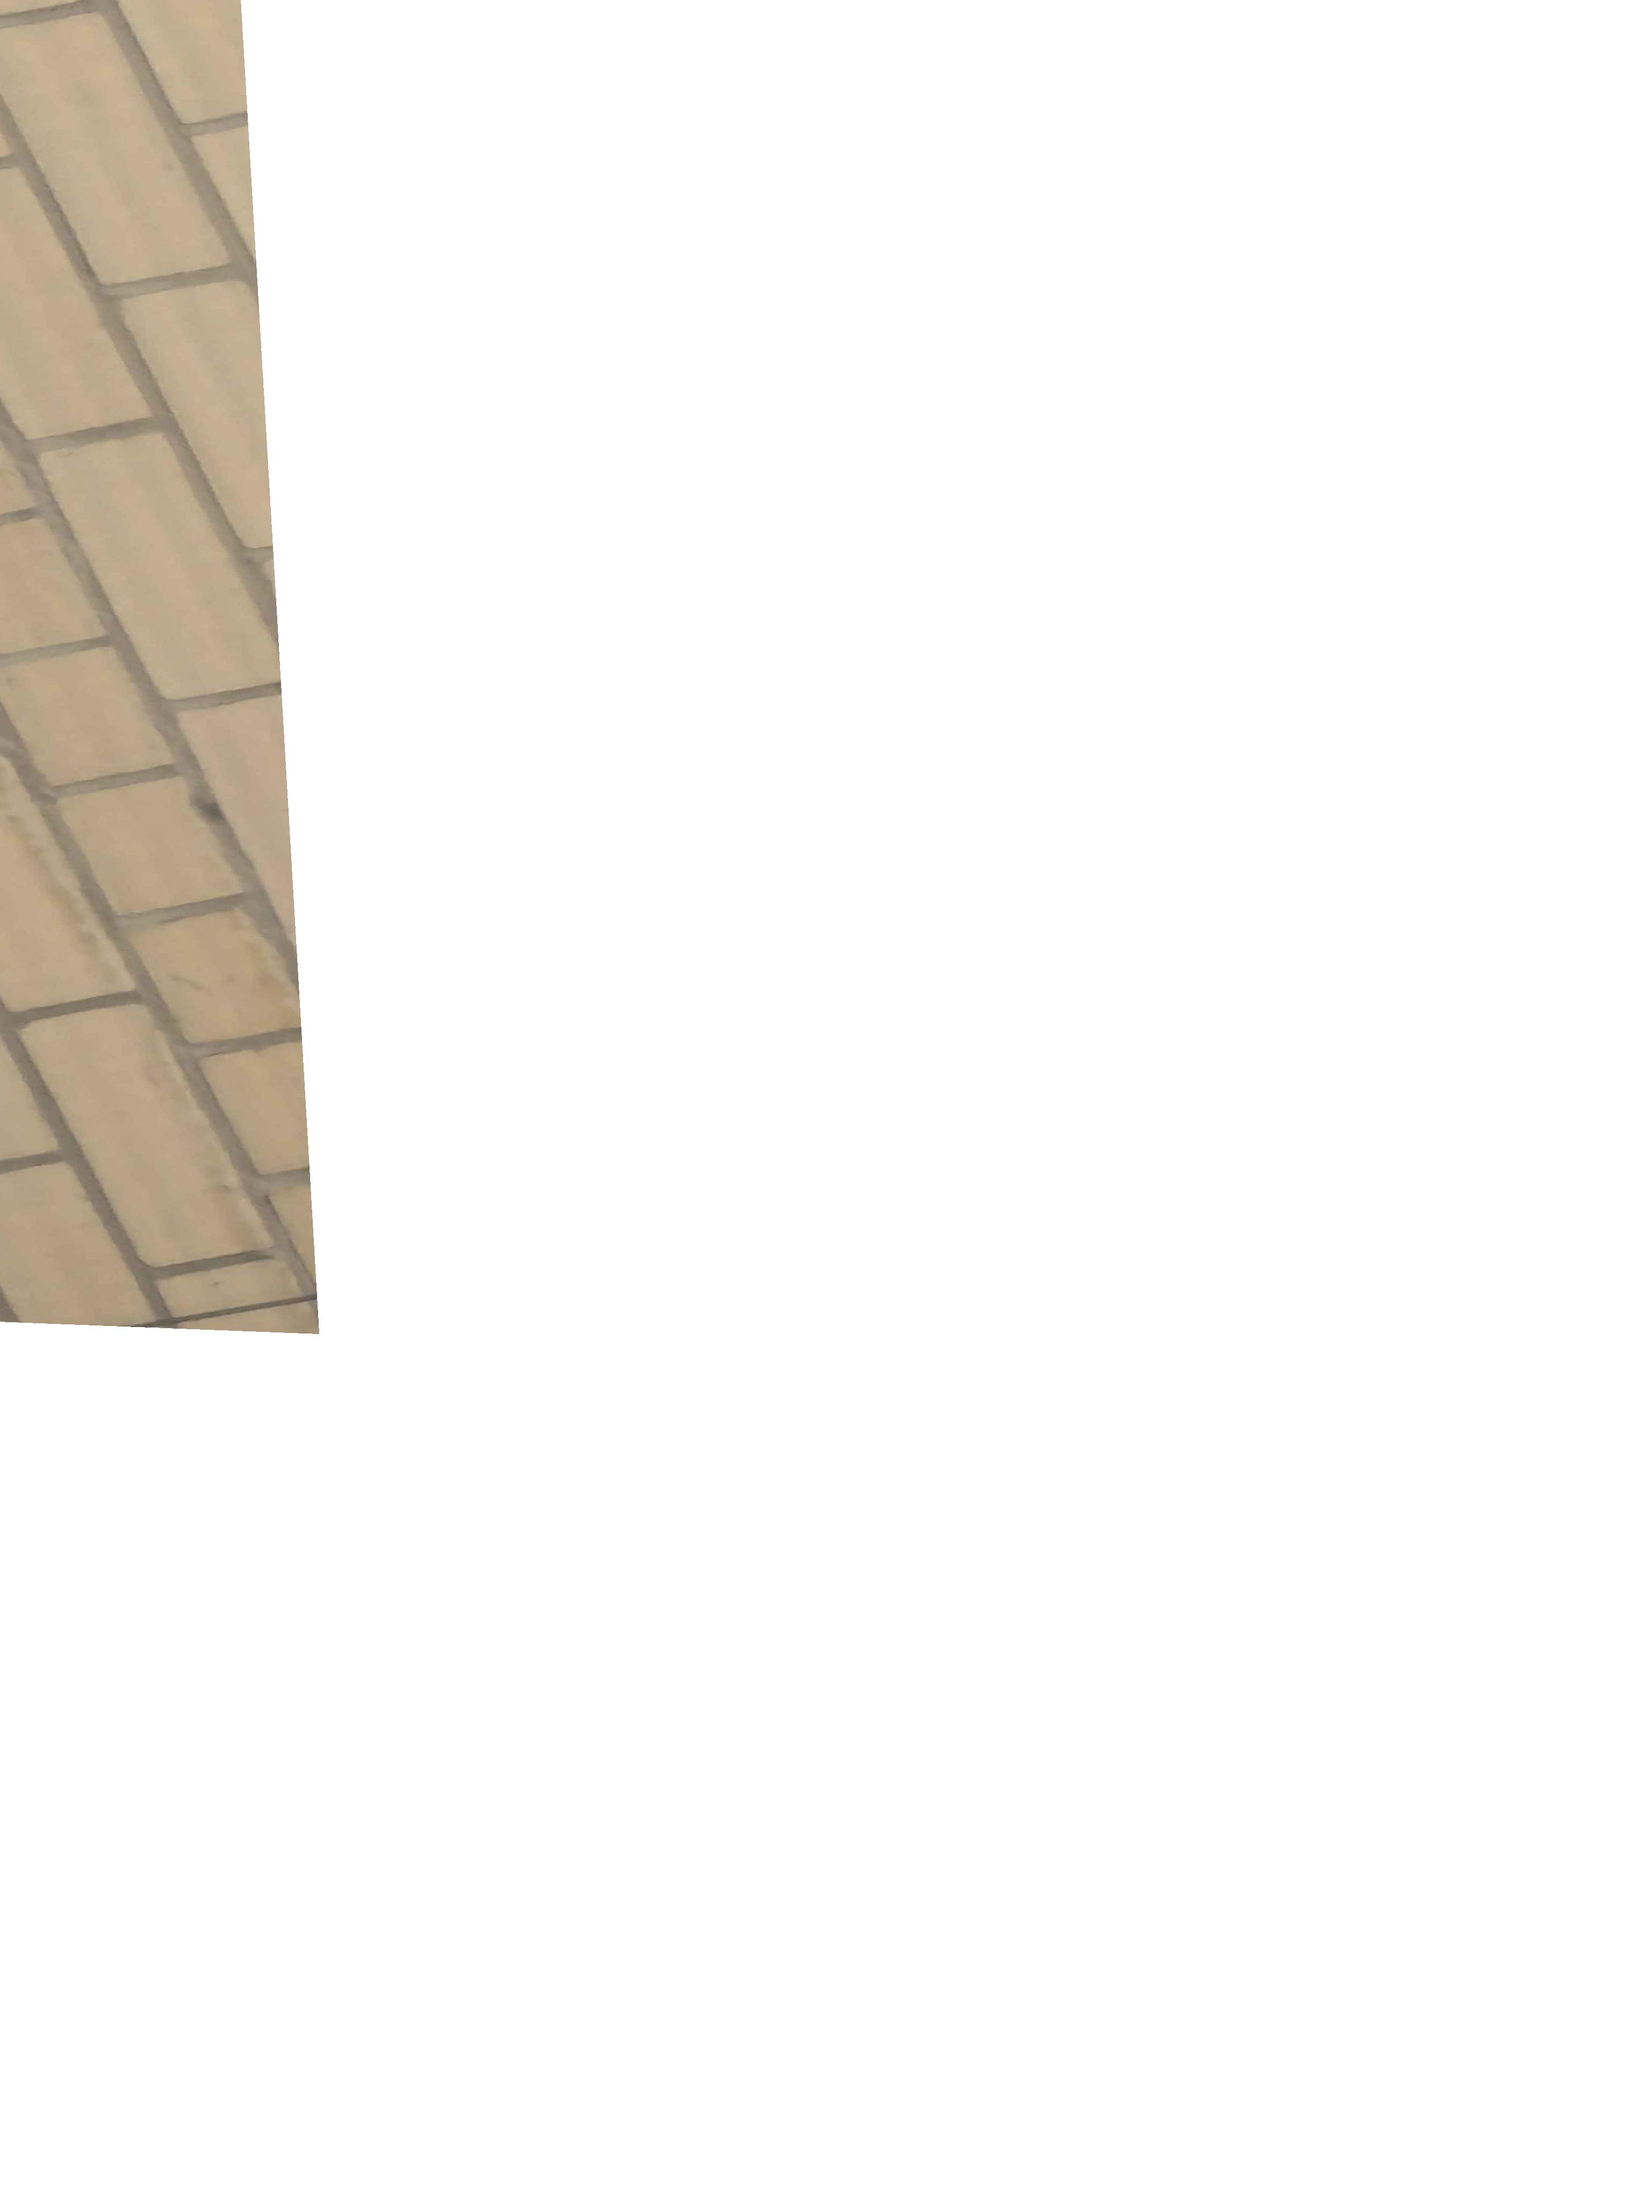
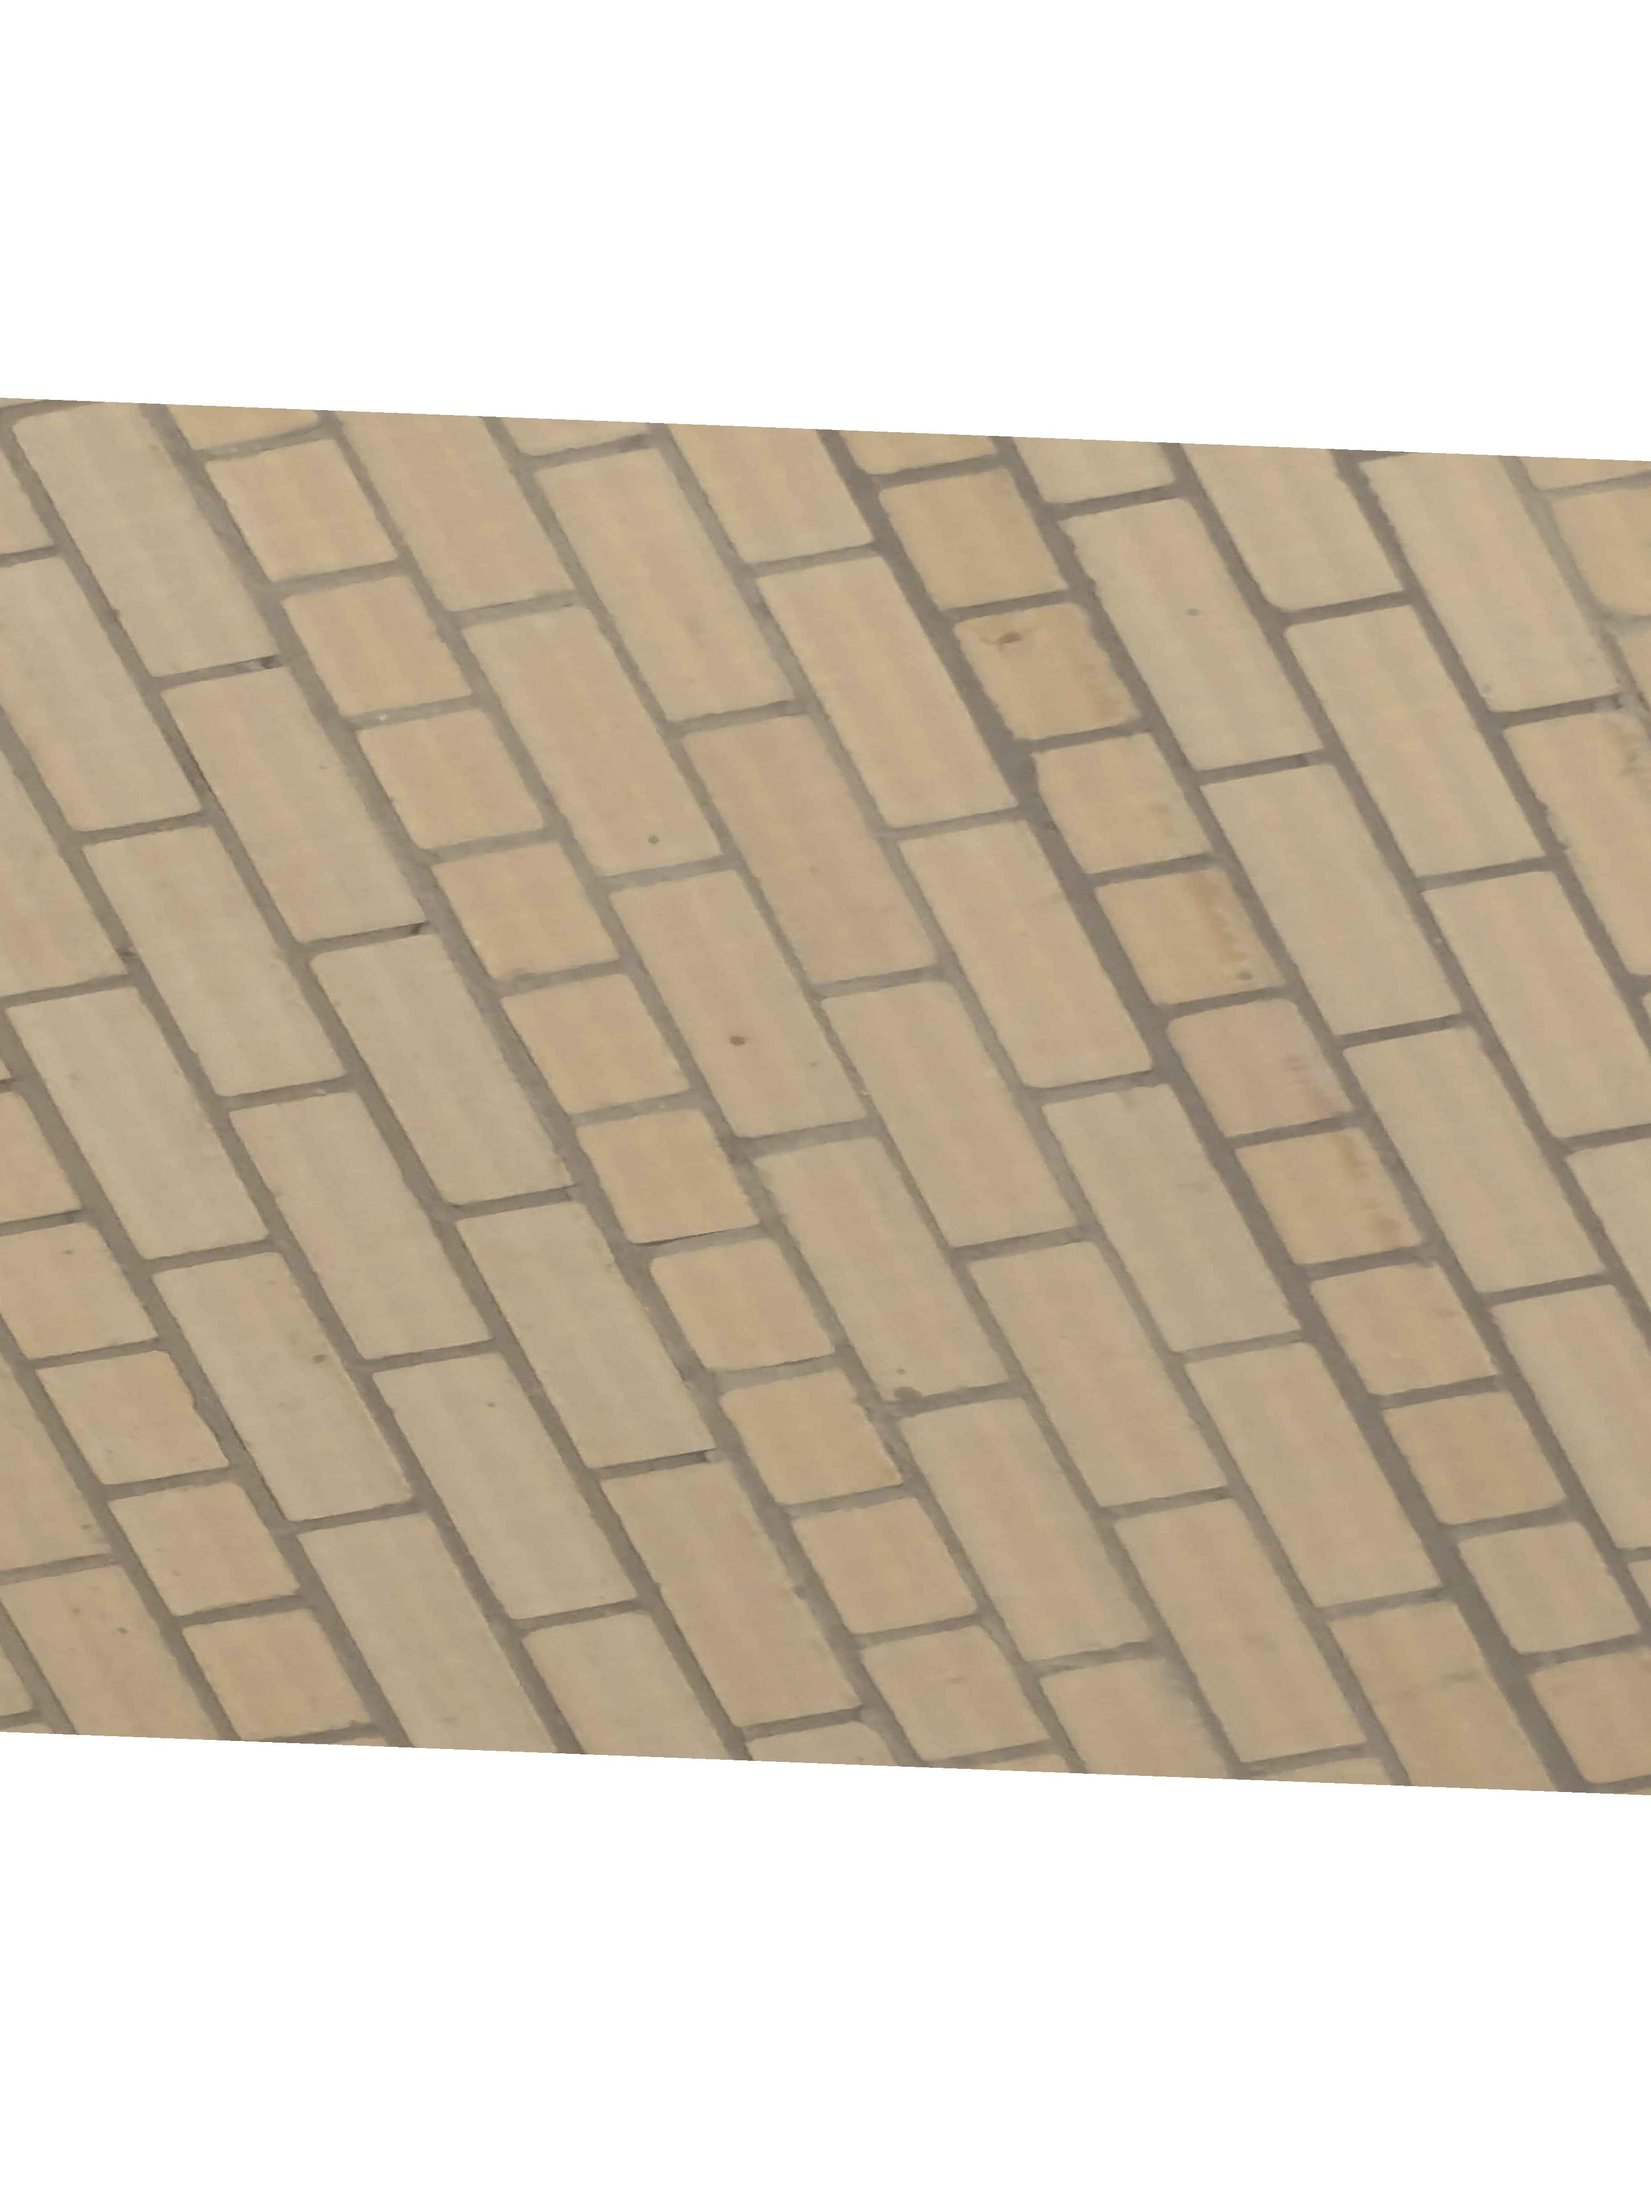
new

diff --git a/algem/transform.py b/algem/transform.py
@@ -43,9 +43,11 @@ def linear_transform(
 if __name__ == "__main__":
     photo = "brick_wall.png"
 
+    # Начало координат (выбрано на фото)
+    photo = "brick_wall.png"
     
     # Ставим точку в центр фото (для 474x356 это ~237, 178)
-    pivot = (237, 178)
+    pivot = (3072//2,4080//2 )
     
     # Векторы "плитки" (теперь они соразмерны объекту на фото)
     # Представь, что это стороны прямоугольника, в который вписана голова кота
